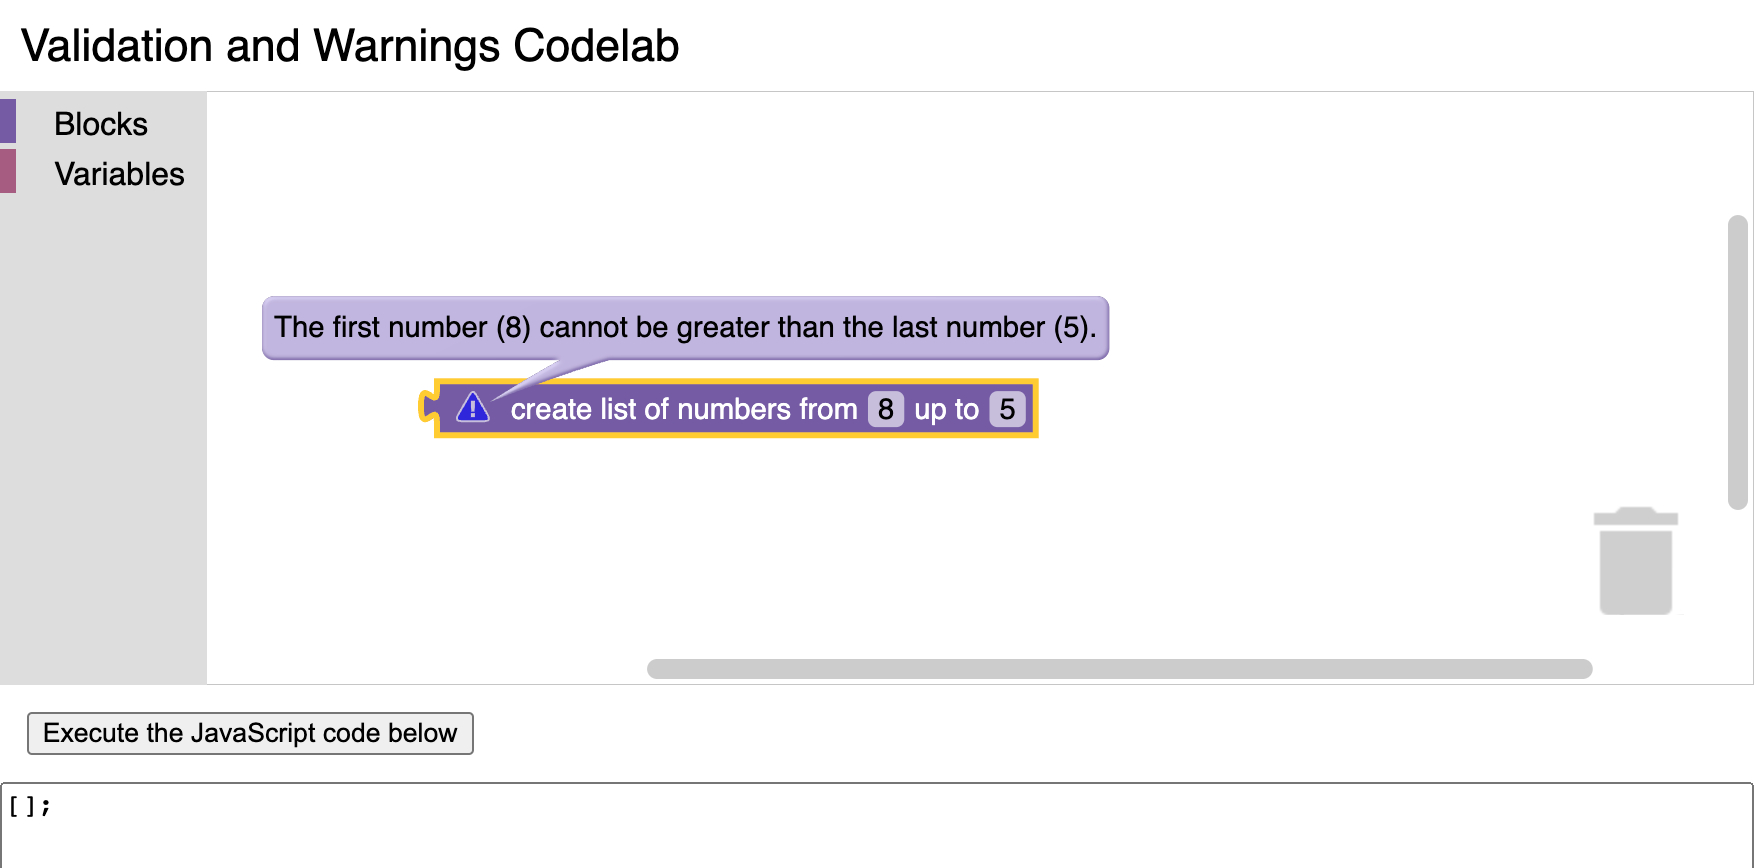
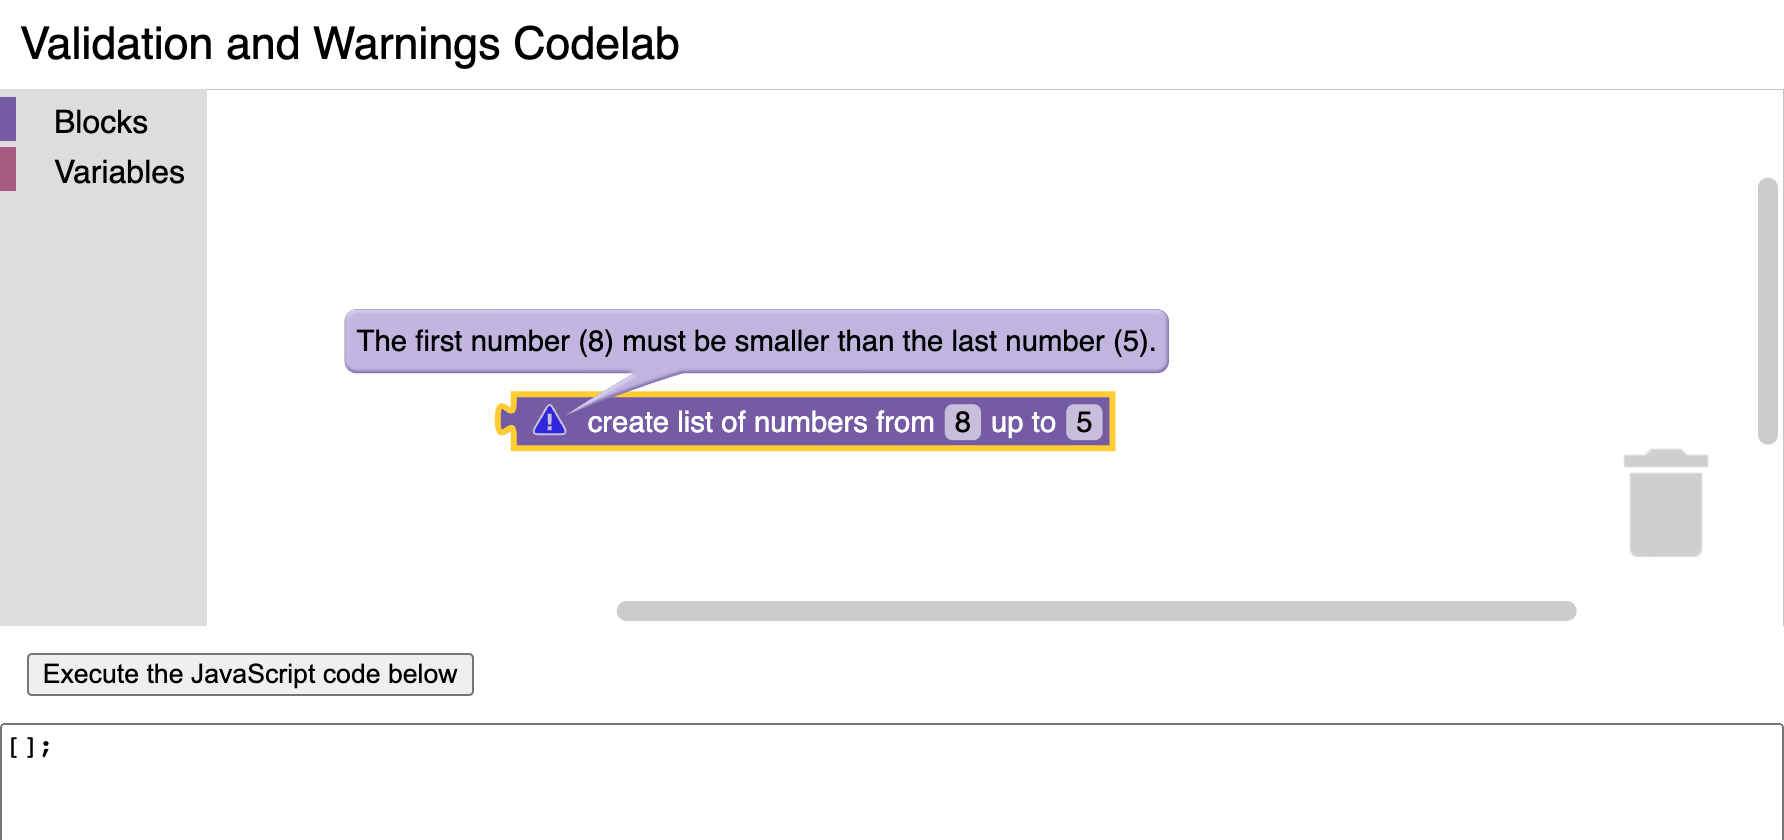
Addressing comments on the pull request.

diff --git a/examples/validation-and-warnings-codelab/complete-code/index.js b/examples/validation-and-warnings-codelab/complete-code/index.js
@@ -39,19 +39,19 @@ Blockly.Extensions.register('list_range_validation', function() {
   this.setOnChange(function(event) {
     const first = this.getFieldValue('FIRST');
     const last = this.getFieldValue('LAST');
-    const valid = (first <= last);
+    const valid = (first < last);
     this.setWarningText(valid
       ? null
-      : `The first number (${first}) cannot be greater than the last number (${last}).`);
+      : `The first number (${first}) must be smaller than the last number (${last}).`);
 
     // Disable invalid blocks (unless it's in a toolbox flyout,
     // since you can't drag disabled blocks to your workspace).
     if (!this.isInFlyout) {
-      const group = Blockly.Events.getGroup();
+      const initialGroup = Blockly.Events.getGroup();
       // Make it so the move and the disable event get undone together.
       Blockly.Events.setGroup(event.group);
       this.setEnabled(valid);
-      Blockly.Events.setGroup(group);
+      Blockly.Events.setGroup(initialGroup);
     }
   });
 });

diff --git a/examples/validation-and-warnings-codelab/complete-code/index.html b/examples/validation-and-warnings-codelab/complete-code/index.html
@@ -5,7 +5,6 @@
   <meta charset="utf-8">
   <title>Validation and Warnings Codelab</title>
   <script src="https://unpkg.com/blockly/blockly.min.js"></script>
-  <script src="https://unpkg.com/@blockly/dev-tools@2.0.0/dist/index.js"></script>
   <script src="index.js"></script>
 
   <style>

diff --git a/examples/validation-and-warnings-codelab/starter-code/index.html b/examples/validation-and-warnings-codelab/starter-code/index.html
@@ -5,7 +5,6 @@
   <meta charset="utf-8">
   <title>Validation and Warnings Codelab</title>
   <script src="https://unpkg.com/blockly/blockly.min.js"></script>
-  <script src="https://unpkg.com/@blockly/dev-tools@2.0.0/dist/index.js"></script>
   <script src="index.js"></script>
 
   <style>

diff --git a/codelabs/validation_and_warnings/validation_and_warnings.md b/codelabs/validation_and_warnings/validation_and_warnings.md
@@ -26,6 +26,7 @@ You can find the code for the [completed custom block](https://github.com/google
 - A text editor.
 - Basic knowledge of JavaScript.
 - Basic understanding of the [Blockly toolbox](https://developers.google.com/blockly/guides/configure/web/toolbox).
+- Basic understanding of [using JSON to define custom blocks](https://developers.google.com/blockly/guides/create-custom-blocks/define-blocks).
 
 ## Setup
 
@@ -60,7 +61,7 @@ Next, open the file `starter-code/index.js` in a text editor. You will be making
 1. In a function called `executeCode()`, it executes the generated JavaScript code.
 
 ### Define a custom block type
-To prepare for adding validation, let's define a new custom block type named `list_range`. Copy the following code to the beginning of `index.js`:
+To prepare for adding validation, let's define a new custom block type named `list_range` with two number fields called `FIRST` and `LAST`. Copy the following code to the beginning of `index.js`:
 
 ```js
 // Use Blockly's custom block JSON API to define a new block type.
@@ -86,9 +87,7 @@ Blockly.common.defineBlocksWithJsonArray([
 ]);
 ```
 
-This definition indicates that this block has two numerical fields called `FIRST` and `LAST`, and that it outputs a list. Later on, we'll refine this definition to add validation to it.
-
-However, if you reload `index.html` and open the toolbox, you won't find the new block in it yet. To be able to use the new block in a workspace, the toolbox definition needs to include it. Find the toolbox definition in `index.js` and insert this code at the beginning of the list of available blocks, right before the one named `controls_forEach`, making sure that the `'type'` here matches the custom block's `'type'`:
+Then, to make this block available from the toolbox, find the toolbox definition in `index.js` and insert this code at the beginning of the list of available blocks, right before the one named `controls_forEach`:
 
 ```js
         {
@@ -97,12 +96,12 @@ However, if you reload `index.html` and open the toolbox, you won't find the new
         },
 ```
 
-This time when you reload `index.html` and open the toolbox, you should see the new block at the top:
+Now, if you reload `index.html` and open the toolbox, you should see the new block at the top:
 
 ![A Blockly toolbox containing range, for-each, sum, print, and break blocks.](completed_toolbox.png)
 
 ### Generating JavaScript code for the custom block
-You can drag now this block out from the toolbox into the workspace, but if you try to use it, you'll find that Blockly doesn't know how to generate JavaScript code from this block yet and error messages will appear in the browser console when it tries to update the display of the generated code. To fix this, add the following code below the custom block definition:
+You can drag this block out from the toolbox into the workspace, but if you try to use it, you'll find that Blockly doesn't know how to generate JavaScript code from this block yet and error messages will appear in the browser console when it tries to update the display of the generated code. To fix this, add the following code below the custom block definition:
 
 ```js
 // Define how to generate JavaScript from the custom block.
@@ -213,7 +212,7 @@ Reload `index.html` now, then drag the custom block to your workspace and try se
 
 Both Blockly's built-in validators and custom validators are nice because they immediately correct any errors so that there should never be any interruption in the validity of the blocks in the workspace or in the validity of the code that it generates. This results in a smooth, pleasant experience for the user, and you should take advantage of these validators whenever possible. 
 
-However, there may be invalid conditions that can't be corrected automatically because it's ambiguous what the desired result is. For example, it doesn't make much sense for our custom block to have a `FIRST` field with a greater value than the `LAST` field, but it's not obvious which of the two fields is "wrong". The best we can do is warn the user about the problem, and let them decide how to fix it. 
+However, there may be invalid conditions that can't be corrected automatically because it's ambiguous what the desired result is. For example, it doesn't make much sense for our custom block to have a `FIRST` field with a greater value than the `LAST` field, but it's not obvious which of the two fields is "wrong." The best we can do is warn the user about the problem, and let them decide how to fix it. 
 
 In the case of our custom block, we want our extension to be notified whenever either field is updated, so that it can check both of the fields to determine whether the block is currently valid. We can set that up with a general change listener by adding this code inside the extension function after the custom validator:
 
@@ -223,10 +222,10 @@ In the case of our custom block, we want our extension to be notified whenever e
   this.setOnChange(function(event) {
     const first = this.getFieldValue('FIRST');
     const last = this.getFieldValue('LAST');
-    const valid = (first <= last);
+    const valid = (first < last);
     this.setWarningText(valid
       ? null
-      : `The first number (${first}) cannot be greater than the last number (${last}).`);
+      : `The first number (${first}) must be smaller than the last number (${last}).`);
   });
 ```
 
@@ -246,11 +245,11 @@ You can disable a block using `this.setEnabled(false)`, although there are some 
     // Disable invalid blocks (unless it's in a toolbox flyout,
     // since you can't drag disabled blocks to your workspace).
     if (!this.isInFlyout) {
-      const group = Blockly.Events.getGroup();
+      const initialGroup = Blockly.Events.getGroup();
       // Make it so the move and the disable event get undone together.
       Blockly.Events.setGroup(event.group);
       this.setEnabled(valid);
-      Blockly.Events.setGroup(group);
+      Blockly.Events.setGroup(initialGroup);
     }
 ```
 
@@ -261,7 +260,7 @@ Reload `index.html` one last time, drag out the custom block, and edit the field
 ## Summary
 In this codelab, you learned:
 * How to use the field validators in Blockly's JSON API.
-* How to create extension to access Blockly's JavaScript API.
+* How to create an extension that adds functionality to a block.
 * How to create custom field validators.
 * How to validate the entire block when any part of it changes.
 * How to display a warning message on the block.
